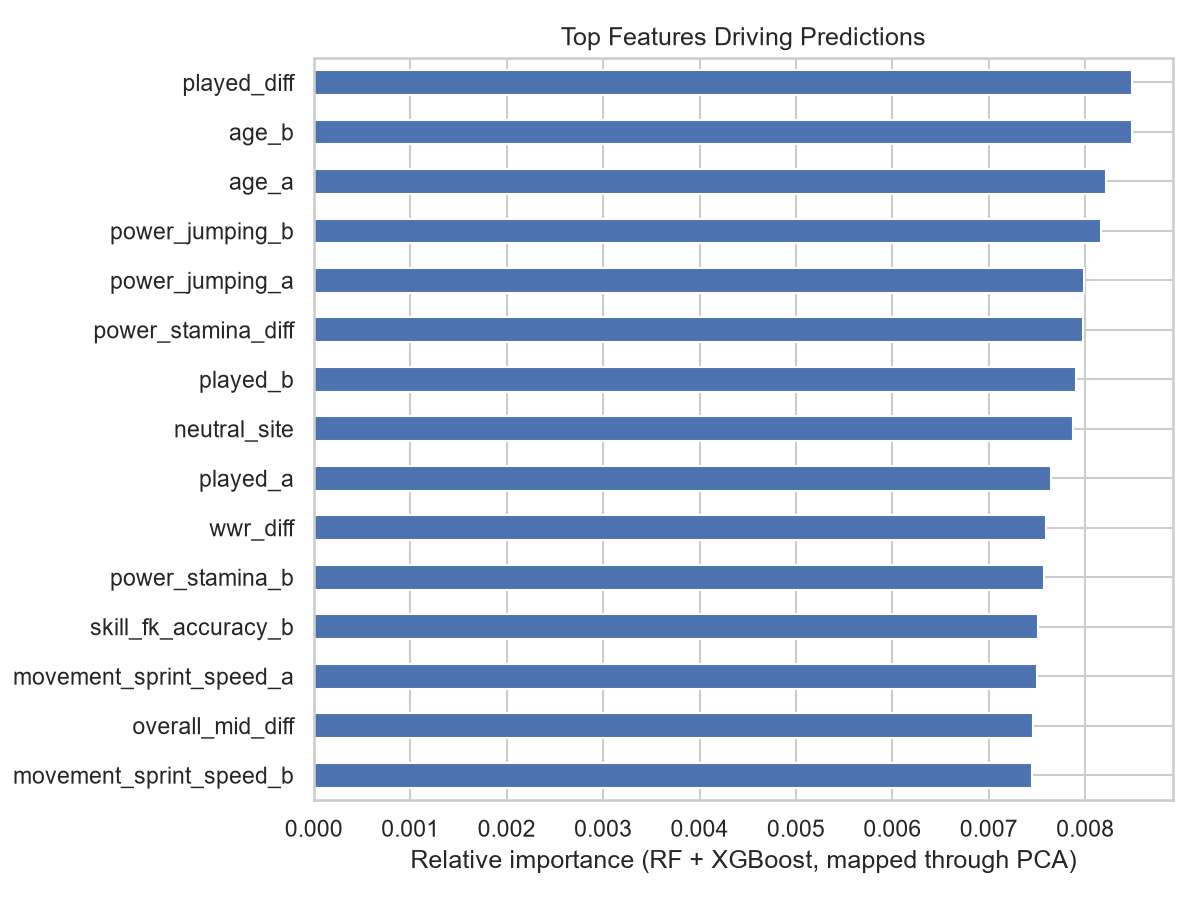
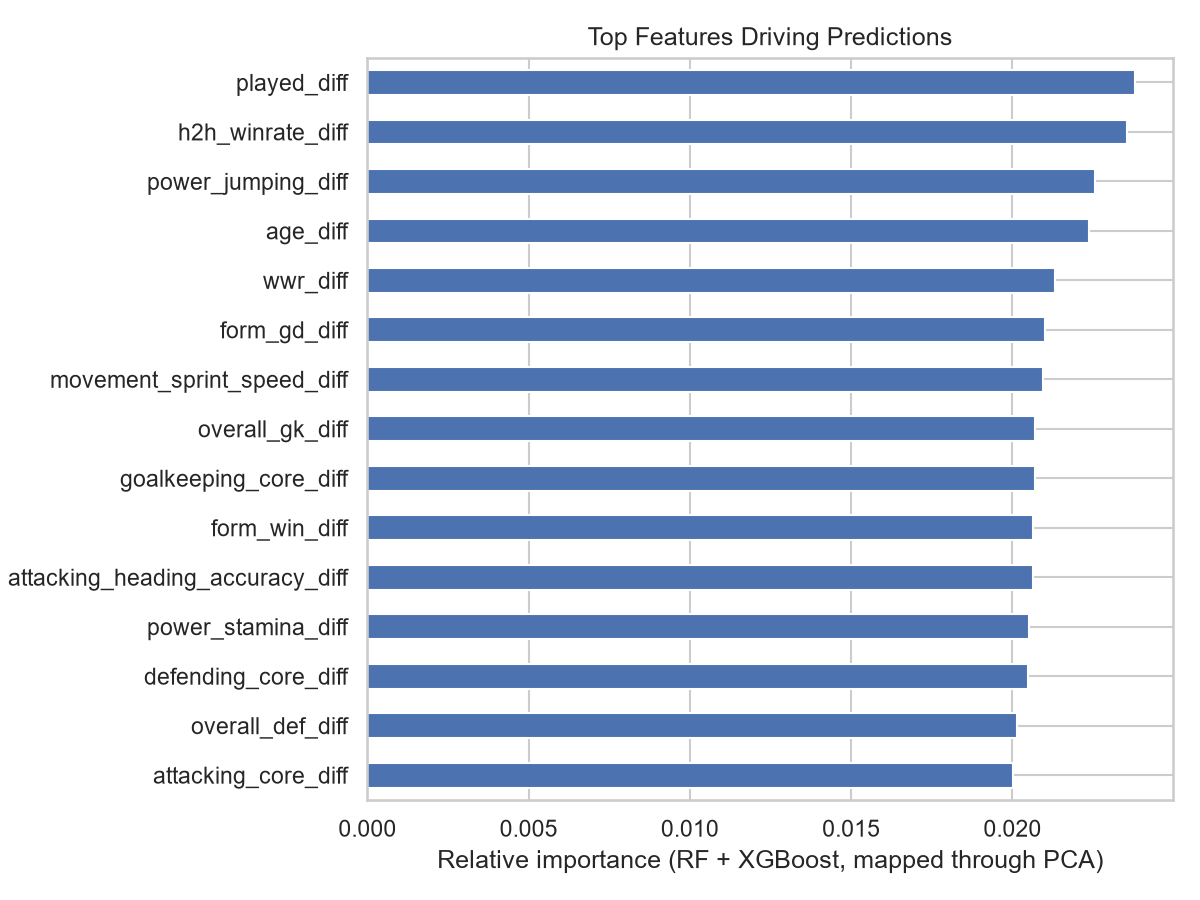
Join squads by match date, drop to _diff-only features
Three changes from the audit. Two worked, one did not.

**Edition-aware join (+1.5 pp, the largest single gain so far).** FIFA
edition Y ships around September of Y-1, but squads were looked up by the
match's calendar year -- and 63% of World Cup matches in scope are played
September to December. Most fixtures were therefore reading ratings a
median of 12 months old while a fresher edition already existed.
`edition_for_match_date()` moves 55% of rows onto newer squads and clamps
to the editions actually on disk, so late-2025 matches fall back to FIFA 25
instead of dropping out of the join. Coverage even rises slightly,
1495 -> 1504 matches.

**_diff-only representation.** `<attr>_a`, `<attr>_b` and `<attr>_diff` are
collinear by construction; h2h_winrate's three columns correlate at exactly
r = 1.0000. 163 features -> 56, holding accuracy (78.80% vs 78.93%) and
cutting seed spread from 1.89 to 1.10.

**Squad-size reliability: did not work.** Profiles are built from whoever
EA rated, so a "team" can be 2 players -- 33% of match rows have a side
under 5 and 48% under 11. Neither form helped: exposing squad_size_min as a
feature moved -0.06 pp, and filtering thin training rows was actively
harmful (-0.87 pp at a threshold of 11, -3.13 pp at 18). Lost volume costs
more than the added noise. The feature is kept as one honest column and
`features.min_squad_size` ships at 0, with the numbers in config.yaml.
[…]

diff --git a/src/features/build_features.py b/src/features/build_features.py
@@ -14,34 +14,74 @@ from sklearn.decomposition import PCA
 from sklearn.preprocessing import StandardScaler, MinMaxScaler
 
 
+def edition_for_match_date(dates: pd.Series, available_years) -> pd.Series:
+    """Which FIFA edition's ratings were current when a match was played.
+
+    The edition labelled year Y ships in about September of Y-1 and describes
+    that season's squads, so it is the current one from Sept Y-1 to Aug Y.
+    Joining on the match's calendar year instead means a fixture played in
+    October reads ratings published thirteen months earlier while a fresher
+    edition already exists -- and 63% of the World Cup matches in scope are
+    played September to December.
+
+    Clamped to the editions actually on disk, so the newest matches fall back
+    to the newest available ratings rather than dropping out of the join.
+    """
+    years = dates.dt.year + (dates.dt.month >= 9).astype(int)
+    return years.clip(lower=min(available_years), upper=max(available_years))
+
+
 def _attach_team_profiles(pairs_df: pd.DataFrame, team_profiles: pd.DataFrame) -> pd.DataFrame:
-    """Join team-year profiles onto each (home_team, away_team, year) row,
-    producing `_a` / `_b` / `_diff` suffixed columns. Shared by
+    """Join team-year profiles onto each (home_team, away_team, profile_year)
+    row, producing `_a` / `_b` / `_diff` suffixed columns. Shared by
     build_match_features (training, needs scores/labels) and
-    build_single_match_features (inference, doesn't)."""
+    build_single_match_features (inference, doesn't).
+
+    `pairs_df` must carry `profile_year` -- the edition to read squads from,
+    which is not necessarily the match's calendar year (see
+    `edition_for_match_date`).
+    """
     profile_cols = [c for c in team_profiles.columns if c not in ("team", "year", "squad_size")]
 
-    a = team_profiles.add_suffix("_a").rename(columns={"team_a": "home_team", "year_a": "year"})
-    b = team_profiles.add_suffix("_b").rename(columns={"team_b": "away_team", "year_b": "year"})
+    a = team_profiles.add_suffix("_a").rename(
+        columns={"team_a": "home_team", "year_a": "profile_year"})
+    b = team_profiles.add_suffix("_b").rename(
+        columns={"team_b": "away_team", "year_b": "profile_year"})
 
-    merged = pairs_df.merge(a, on=["home_team", "year"], how="inner")
-    merged = merged.merge(b, on=["away_team", "year"], how="inner")
+    merged = pairs_df.merge(a, on=["home_team", "profile_year"], how="inner")
+    merged = merged.merge(b, on=["away_team", "profile_year"], how="inner")
 
     for col in profile_cols:
         merged[f"{col}_diff"] = merged[f"{col}_a"] - merged[f"{col}_b"]
 
+    # How much squad actually backs this comparison. Nearly half of all match
+    # rows have at least one side built from fewer than 11 rated players, and
+    # without this the model cannot tell a full 23-man profile from a 2-player
+    # one. The minimum is the right summary: the comparison is only as reliable
+    # as its weaker half.
+    merged["squad_size_min"] = merged[["squad_size_a", "squad_size_b"]].min(axis=1)
+
     return merged
 
 
-def build_match_features(matches_df: pd.DataFrame, team_profiles: pd.DataFrame) -> pd.DataFrame:
+def build_match_features(matches_df: pd.DataFrame, team_profiles: pd.DataFrame,
+                         edition_aware: bool = True) -> pd.DataFrame:
     """Join team-year profiles onto each match for both the home and away team,
     producing one row per match with `_a` / `_b` / `_diff` suffixed columns.
 
     Args:
-        matches_df: must contain home_team, away_team, year (or a date to derive
-            year from), and the outcome columns needed to build the label.
+        matches_df: must contain home_team, away_team, date, year, and the
+            outcome columns needed to build the label.
         team_profiles: output of clean.build_all_team_year_profiles().
+        edition_aware: read squads from the FIFA edition current on the match
+            date rather than the one labelled with the match's calendar year.
+            See `edition_for_match_date`.
     """
+    matches_df = matches_df.copy()
+    matches_df["profile_year"] = (
+        edition_for_match_date(matches_df["date"], team_profiles["year"].unique())
+        if edition_aware else matches_df["year"]
+    )
     merged = _attach_team_profiles(matches_df, team_profiles)
 
     # Drop fixtures with no recorded result BEFORE the draw filter. results.csv
@@ -81,7 +121,11 @@ def build_single_match_features(
             matchup, where treating one side as "home" would invent an
             advantage nobody has.
     """
-    pairs_df = pd.DataFrame([{"home_team": team_a, "away_team": team_b, "year": year}])
+    # `year` here names the edition directly -- a caller asking for a live
+    # prediction picks the squad vintage, so there is no match date to derive
+    # one from.
+    pairs_df = pd.DataFrame([{"home_team": team_a, "away_team": team_b,
+                              "year": year, "profile_year": year}])
     merged = _attach_team_profiles(pairs_df, team_profiles)
     if merged.empty:
         raise ValueError(f"No profile data for {team_a!r} and/or {team_b!r} in {year}")
@@ -118,23 +162,46 @@ def mirror_feature_frame(X: pd.DataFrame) -> pd.DataFrame:
 
 
 # Features describing the fixture rather than either team, so they carry no
-# _a/_b/_diff suffix and have to be listed explicitly. `neutral_site` earns its
-# place: World Cup qualifiers are played home-and-away and the home side wins
-# 63.1% of them, while on neutral ground it is 48.6% -- near a coin flip. Without
-# this column the model blends the two and applies a phantom home advantage to
-# every neutral-venue fixture, which is every match at the tournament itself.
-MATCH_CONTEXT_FEATURES = ("neutral_site",)
+# _a/_b/_diff suffix and have to be listed explicitly.
+#
+# `neutral_site`: World Cup qualifiers are played home-and-away and the home
+# side wins 63.1% of them, while on neutral ground it is 48.6% -- near a coin
+# flip. Without this the model blends the two and applies a phantom home
+# advantage to every neutral-venue fixture, which is every match at the
+# tournament itself.
+#
+# `squad_size_min`: how much squad backs the comparison at all. Symmetric, so
+# mirroring leaves it alone, and it is a level rather than a difference -- which
+# is the point, since two equally thin profiles differ by zero.
+MATCH_CONTEXT_FEATURES = ("neutral_site", "squad_size_min")
 
 
-def get_feature_columns(df: pd.DataFrame) -> list[str]:
-    """Return the *_a, *_b, *_diff engineered columns plus match context,
-    excluding IDs/labels."""
-    exclude = {"home_team", "away_team", "year", "date", "tournament", "label",
-               "home_score", "away_score", "net_score", "neutral",
-               "squad_size_a", "squad_size_b"}
-    suffixed = [c for c in df.columns if c not in exclude and (
-        c.endswith("_a") or c.endswith("_b") or c.endswith("_diff")
-    )]
+def get_feature_columns(df: pd.DataFrame, representation: str = "all") -> list[str]:
+    """Return the engineered feature columns plus match context.
+
+    Args:
+        representation: "all" keeps `_a`, `_b` and `_diff`; "diff" keeps only
+            the differences. `_diff` is exactly `_a - _b`, so the triple is
+            collinear by construction and costs 3x the dimensionality for no
+            extra information about which side is stronger. Measured over 5
+            seeds, dropping to differences alone holds accuracy (78.66% vs
+            78.93%) while cutting seed-to-seed spread from 1.89 to 0.60 -- the
+            absolute levels mostly contribute variance. See config
+            `features.representation`.
+    """
+    exclude = {"home_team", "away_team", "year", "profile_year", "date",
+               "tournament", "label", "home_score", "away_score", "net_score",
+               "neutral", "squad_size_a", "squad_size_b", "squad_size_diff"}
+
+    if representation == "diff":
+        suffixes = ("_diff",)
+    elif representation == "all":
+        suffixes = ("_a", "_b", "_diff")
+    else:
+        raise ValueError(f"unknown feature representation {representation!r}; "
+                         "expected 'all' or 'diff'")
+
+    suffixed = [c for c in df.columns if c not in exclude and c.endswith(suffixes)]
     return suffixed + [c for c in MATCH_CONTEXT_FEATURES if c in df.columns]
 
 

diff --git a/tests/test_build_features.py b/tests/test_build_features.py
@@ -12,6 +12,7 @@ import pytest
 from src.features.build_features import (
     build_match_features,
     build_single_match_features,
+    edition_for_match_date,
     get_feature_columns,
 )
 
@@ -113,3 +114,77 @@ def test_unknown_team_or_year_raises(profiles):
         build_single_match_features("A", "Nowhere", 2018, profiles)
     with pytest.raises(ValueError):
         build_single_match_features("A", "B", 1998, profiles)
+
+
+# -- edition-aware join --------------------------------------------------
+
+
+@pytest.mark.parametrize("date,expected", [
+    ("2018-01-15", 2018),   # Jan: edition 2018 shipped Sept 2017, still current
+    ("2018-06-14", 2018),   # the World Cup itself -- the pre-tournament rating
+    ("2018-08-31", 2018),   # last day before the next edition ships
+    ("2018-09-01", 2019),   # edition 2019 has shipped; it is now the fresher one
+    ("2018-11-20", 2019),
+    ("2018-12-31", 2019),
+])
+def test_edition_for_match_date(date, expected):
+    got = edition_for_match_date(pd.Series([pd.Timestamp(date)]), range(2015, 2026))
+    assert got.iloc[0] == expected
+
+
+def test_edition_is_clamped_to_available_years():
+    """Nov 2025 wants edition 2026, which is not on disk -- it must fall back to
+    the newest available rather than dropping the match from the join."""
+    got = edition_for_match_date(pd.Series([pd.Timestamp("2025-11-18")]), range(2015, 2026))
+    assert got.iloc[0] == 2025
+
+    early = edition_for_match_date(pd.Series([pd.Timestamp("2010-03-01")]), range(2015, 2026))
+    assert early.iloc[0] == 2015
+
+
+def test_edition_aware_join_reads_the_newer_edition(profiles):
+    """A November match must pick up the following edition's squad."""
+    two_years = pd.concat([
+        profiles,
+        profiles.assign(year=2019, overall=profiles["overall"] + 10.0),
+    ], ignore_index=True)
+    november = pd.DataFrame([_match("A", "B", 2, 1, date="2018-11-20")])
+
+    aware = build_match_features(november, two_years, edition_aware=True).reset_index(drop=True)
+    calendar = build_match_features(november, two_years, edition_aware=False).reset_index(drop=True)
+
+    assert aware.loc[0, "profile_year"] == 2019
+    assert calendar.loc[0, "profile_year"] == 2018
+    assert aware.loc[0, "overall_a"] == calendar.loc[0, "overall_a"] + 10.0
+
+
+# -- representation and reliability --------------------------------------
+
+
+def test_representation_diff_drops_the_levels(profiles):
+    feat = build_match_features(pd.DataFrame([_match("A", "B", 2, 1)]), profiles)
+    all_cols = get_feature_columns(feat, "all")
+    diff_cols = get_feature_columns(feat, "diff")
+
+    assert len(diff_cols) < len(all_cols)
+    assert not any(c.endswith(("_a", "_b")) for c in diff_cols)
+    assert "overall_diff" in diff_cols
+    # Match context survives both representations -- it has no _diff form.
+    assert "neutral_site" in diff_cols and "neutral_site" in all_cols
+
+
+def test_unknown_representation_raises(profiles):
+    feat = build_match_features(pd.DataFrame([_match("A", "B", 2, 1)]), profiles)
+    with pytest.raises(ValueError, match="representation"):
+        get_feature_columns(feat, "levels-only")
+
+
+def test_squad_size_min_is_the_weaker_profile(profiles):
+    thin = profiles.copy()
+    thin.loc[thin["team"] == "B", "squad_size"] = 3
+    feat = build_match_features(pd.DataFrame([_match("A", "B", 2, 1)]), thin).reset_index(drop=True)
+
+    assert feat.loc[0, "squad_size_min"] == 3
+    assert "squad_size_min" in get_feature_columns(feat, "diff")
+    # The raw per-side sizes stay out: only the binding constraint is a feature.
+    assert "squad_size_a" not in get_feature_columns(feat, "all")

diff --git a/src/pipeline.py b/src/pipeline.py
@@ -57,7 +57,10 @@ def build_match_dataset(cfg: dict, profiles: pd.DataFrame):
         matches, include_qualifiers=cfg["data"].get("include_qualifiers", False)
     )
     wc_scope = wc_all_history[wc_all_history["year"].isin(cfg["data"]["years"])]
-    feat = build_match_features(wc_scope, profiles)
+    feat = build_match_features(
+        wc_scope, profiles,
+        edition_aware=cfg["features"].get("edition_aware_join", False),
+    )
 
     history_state = None
     if cfg["features"].get("history_features", False):
@@ -87,7 +90,7 @@ def run_seed(cfg: dict, feat: pd.DataFrame, wc_all_history: pd.DataFrame, seed: 
     comparison report (overall / high-scoring / low-scoring accuracy rows)."""
     set_seed(seed)
 
-    feature_cols = get_feature_columns(feat)
+    feature_cols = get_feature_columns(feat, cfg["features"].get("representation", "all"))
     X = feat[feature_cols]
     y = feat["label"]
 
@@ -95,6 +98,17 @@ def run_seed(cfg: dict, feat: pd.DataFrame, wc_all_history: pd.DataFrame, seed: 
         feat.index, test_size=cfg["models"]["test_size"],
         random_state=seed, stratify=y,
     )
+
+    min_squad = cfg["features"].get("min_squad_size", 0)
+    if min_squad:
+        # Training rows only. The test set keeps its thin-profile matches on
+        # purpose: they are part of the population the model is asked about, so
+        # filtering them from the evaluation would flatter the score rather than
+        # improve the model.
+        thin = feat.loc[idx_train, "squad_size_min"] < min_squad
+        idx_train = idx_train[~thin.to_numpy()]
+        print(f"Squad filter: dropped {int(thin.sum())} training rows with a "
+              f"profile under {min_squad} players -> {len(idx_train)} remain")
     # Impute from the TRAINING split only. Computing the mean over the full
     # frame first would fold test-set values into the training data, the same
     # leak that scaling/PCA below are careful to avoid by fitting on train only.

diff --git a/README.md b/README.md
@@ -160,20 +160,20 @@ safe to re-run.
 - [x] Repo scaffolding
 - [x] Data collection (real Kaggle datasets connected: player attributes 2015–2025 — FIFA 15–23,
   EA FC 24 from the same author, EA FC 25 mapped via `src/data/adapters.py` — match history 1872–present)
-- [x] Feature engineering (1749 team-year profiles, 163 raw features -> ~35 PCA components at 95% variance, depending on the split):
-  144 squad columns (means, star-concentration shape, and per-position aggregates), 18 as-of-date match-history columns
-  (`src/features/history_features.py`), and a neutral-venue flag
+- [x] Feature engineering (1749 team-year profiles, 56 features -> ~20 PCA components at 95% variance, depending on the split):
+  one `<attr>_diff` per squad attribute (means, star-concentration shape, per-position aggregates), 6 as-of-date match-history
+  differences (`src/features/history_features.py`), plus neutral-venue and squad-size context
 - [x] Baseline (WWR) — fit on full World Cup history (finals + qualifiers), test-leakage safe
-- [x] Ensemble models — 5-model majority vote, trained end-to-end on real data (1495 usable matches)
+- [x] Ensemble models — 5-model majority vote, trained end-to-end on real data (1504 usable matches)
 - [x] Evaluation — accuracy, high/low-scoring split, challenging cases, validated across 5 random seeds
 - [x] Report figures (`outputs/figures/`: accuracy comparison, seed variance, confusion matrices,
   PCA variance, ROC curve, per-model accuracy, feature importance)
 - [x] Report writing (Phase 7) — `report/report.md` / `report/report.pdf`
 - [x] Web app (Phase 8) — FastAPI backend (`api/`) + React frontend (`frontend/`): live team-vs-team prediction and an interactive results dashboard
 
-**Latest results** (1495 World Cup matches incl. qualifiers, 5-seed average): ensemble
-**78.9% ± 1.9%** overall accuracy vs. baseline 74.8% ± 2.8% — see `outputs/figures/`.
-The ensemble finishes ahead on all 5 seeds, by between 2.3 and 6.4 points.
+**Latest results** (1504 World Cup matches incl. qualifiers, 5-seed average): ensemble
+**80.3% ± 3.2%** overall accuracy vs. baseline 74.9% ± 2.7% — see `outputs/figures/`.
+The ensemble finishes ahead on all 5 seeds, by between 2.0 and 9.3 points.
 Run `python -m src.pipeline` to reproduce, or `python -m src.make_figures` to
 regenerate the figures.
 
@@ -195,7 +195,9 @@ Three changes, each measured on its own across all 5 seeds:
 | \+ as-of-date history features | 78.1% ± 3.0% | +3.3 pp | 4 / 5 |
 | \+ neutral-only row mirroring | 78.5% ± 2.0% | +3.7 pp | 5 / 5 |
 | \+ squad shape & position aggregation | 78.6% ± 1.8% | +3.8 pp | 5 / 5 |
-| \+ goal-difference-weighted Elo | **78.9% ± 1.9%** | **+4.2 pp** | **5 / 5** |
+| \+ goal-difference-weighted Elo | 78.9% ± 1.9% | +4.2 pp | 5 / 5 |
+| \+ `_diff`-only representation | 78.8% ± 1.1 | +4.0 pp | 5 / 5 |
+| \+ edition-aware squad join | **80.3% ± 3.2%** | **+5.3 pp** | **5 / 5** |
 
 - **History features** (`src/features/history_features.py`) give the model Elo, the baseline's
   own weighted win ratio, matches played, head-to-head record and recent form. Every value is
@@ -240,8 +242,40 @@ Three changes, each measured on its own across all 5 seeds:
   multiplier is kept: margin of victory is real evidence no other feature carries per match.
   It is left in the code behind `features.history_elo_competition_weighted` for re-measuring.
 
+- **`_diff`-only representation and an edition-aware squad join** came out of a full audit.
+  `<attr>_a`, `<attr>_b` and `<attr>_diff` are collinear by construction, and `h2h_winrate`'s
+  three columns are correlated at r = 1.0000 exactly — 163 features carrying far less than 163
+  features' worth of information. Dropping to differences alone (163 → 56) held accuracy and
+  cut seed spread from 1.9 to 1.1. The bigger win was the join: FIFA edition *Y* ships around
+  September of *Y−1*, but squads were being looked up by the match's **calendar year**, and 63%
+  of matches in scope are played September–December — so most fixtures were reading ratings a
+  median of 12 months old while a fresher edition already existed. Joining on the edition
+  current at the match date moves 55% of rows onto newer squads and is worth **+1.5 pp**, the
+  largest single gain of any change here. It does widen seed spread (1.1 → 3.2), which is the
+  one cost.
+- **Squad-size reliability did not work**, in either form. Profiles are built from whoever EA
+  rated, so a "team" can be 2 players: 33% of match rows have a side under 5, and 48% under 11.
+  Exposing `squad_size_min` as a feature moved nothing (−0.06 pp), and *filtering* thin training
+  rows was actively harmful — −0.9 pp at a threshold of 11 and −3.1 pp at 18. The lost volume
+  costs more than the added noise. The feature is kept (it is one column and genuinely
+  describes the row); `features.min_squad_size` ships at 0.
+
 Per-seed McNemar reaches p<0.05 on 2 of the 5 seeds (p ranging 0.012–0.41,
 n=299 per test set). What changed is that the margin is positive on every seed rather than two.
+
+#### Validity checks
+
+Two things that would invalidate the headline number were tested directly rather than assumed:
+
+- **Is the random split hiding that this trains on the future?** No. Splitting *temporally*
+  instead — train on everything up to 2024-10-15, predict the 295 matches after it — gives
+  **79.7% ± 0.7% against the baseline's 77.0%**. Accuracy does not drop, so the random-split
+  figure is not inflated by hindsight, and the forecasting framing is defensible.
+- **Is the baseline handicapped?** Slightly, and it was worth checking: the ensemble's history
+  features are built from all 49,520 international matches while the WWR baseline is fit on the
+  9,839 World Cup ones — a 5× information edge. Giving the baseline the full record moves it
+  from 74.8% to 74.9%, so the like-for-like margin is **+4.0 pp rather than +4.2 pp** at the
+  point that was measured. Real, but small enough that it does not change the conclusion.
 
 ### Held-out test: the 2026 World Cup knockout bracket
 
@@ -263,7 +297,7 @@ python -m src.backtest_wc2026
 | Semi-finals | 2 | 50% | 50% |
 | **Overall** | **30** | **86.7%** | **66.7%** |
 
-86.7% out of sample sits above the cross-validated 78.9% ± 1.9%, which is the main evidence
+86.7% out of sample sits above the cross-validated 80.3% ± 3.2%, which is the main evidence
 that the model generalises rather than fitting its own test splits — though *above* is itself a
 warning sign rather than a triumph. The goal-difference Elo change was worth +0.33 pp in
 cross-validation and appears to be worth +10 pp here; that gap is three matches out of thirty,
@@ -282,14 +316,14 @@ World Cup final between those two.
 **Beyond overall accuracy**, `python -m src.pipeline` also reports (console + `report.attrs`):
 - Per-model accuracy for each of the 5 base classifiers, before the majority vote
 - Precision / recall / F1 / ROC-AUC (accuracy alone hides the home-win class imbalance)
-- McNemar's test on paired baseline-vs-ensemble predictions — the ~4.2-point accuracy
+- McNemar's test on paired baseline-vs-ensemble predictions — the ~5.3-point accuracy
   margin reaches p<0.05 on 2 of the 5 seeds (per-seed p-values range from 0.005 to
   0.41; honest finding, not swept under the rug — see the report's Discussion section).
   With ~299 test rows per seed the test is underpowered for a gap this size; the stronger
   evidence is that the margin is positive on all 5 seeds
 - Ensemble accuracy broken down by vote agreement (3/5, 4/5, 5/5 of the base models agreeing)
 - Feature importance (Random Forest + XGBoost, mapped back from PCA-component space to
-  the original 163 engineered features) — an approximation, since PCA components have no
+  the original 56 engineered features) — an approximation, since PCA components have no
   direct real-world meaning
 
 ## Reference
